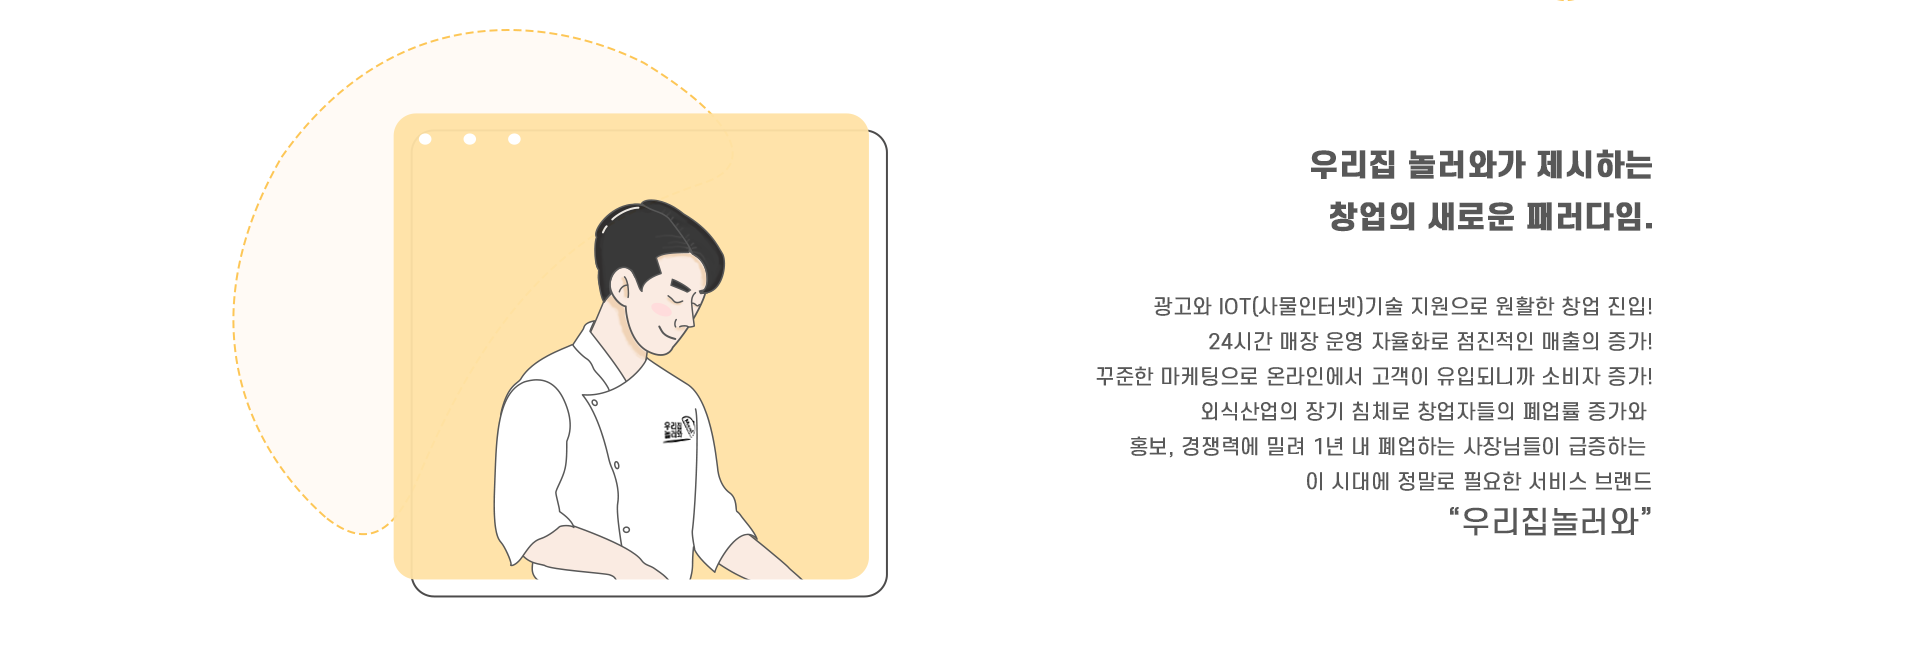
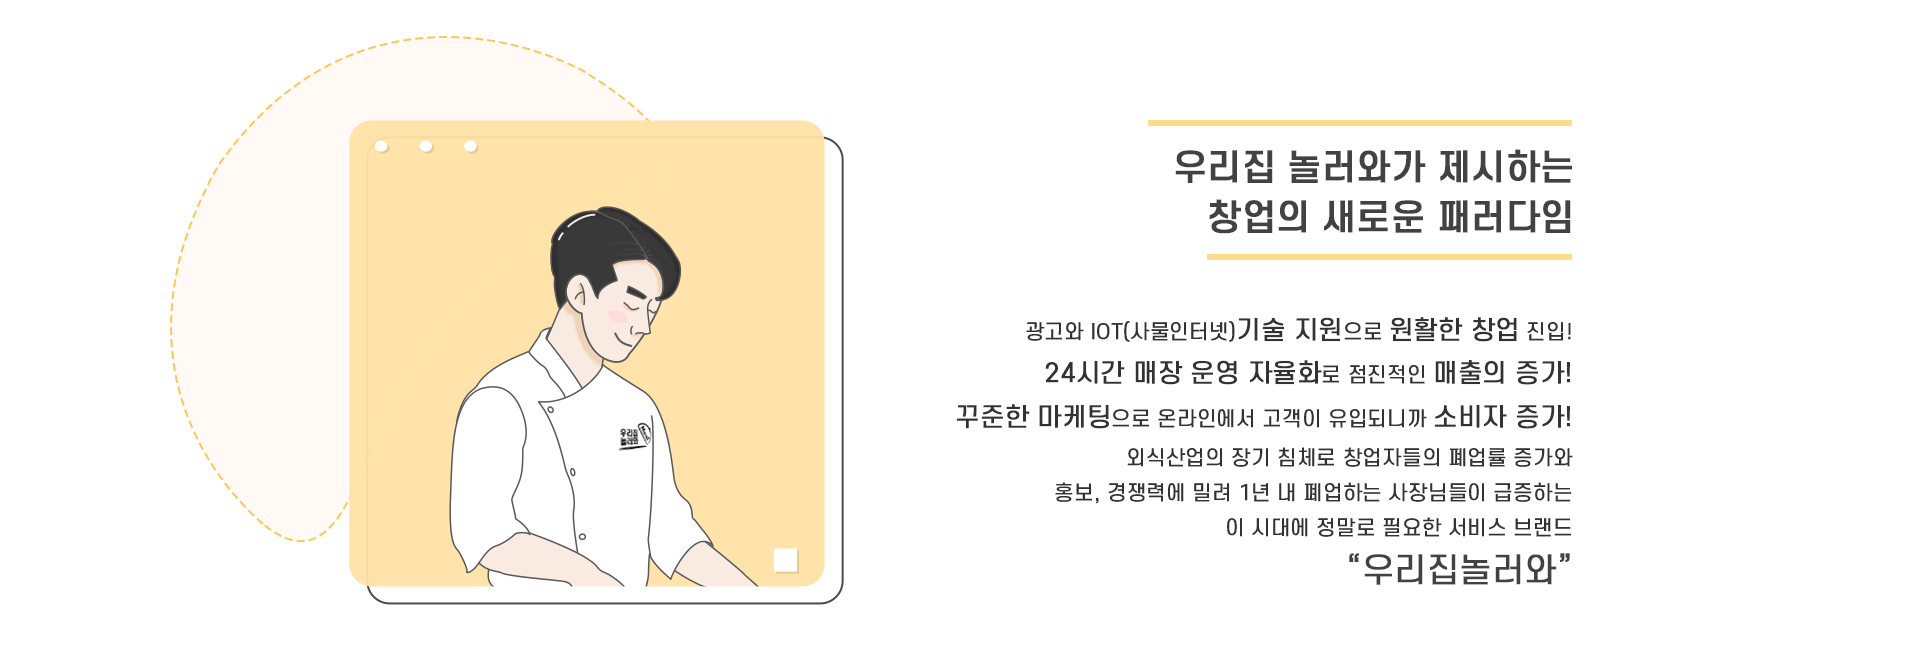
2차수정

diff --git a/index.html b/index.html
@@ -296,23 +296,10 @@
             </section>
             <section id="storeinfo_section" class="storeinfo_section">
                 <div class="inner">
-                    <div class="text_wrap">
-                        <div class="title_wrap">
-                            <p class="title">오직, 밥상을 준비하는 분들에게 집중한 체험공간<br/></p>
-                            <p class="desc">"특별한 요리를 경험하세요"</p>
-                        </div>
-                        <div class="big_text_wrap">
-                            <p class="big_text">
-                                뜯고 담고 굽고 즐기고
-                            </p>
-                        </div>
-                        <div class="button_wrap">
-                            <a class="button" href="/wn-official/smartStor/index.html">매장체험 둘러보기</a>
-                        </div>
-                        <div class="point_wrap">
-                            <p class="text">※ 매장 체험은 예약없이도 이용 가능합니다.<br/>(단, 예약시 선물 증정)</p>
-                        </div>
-                    </div>
+                    <img src="/wn-official/src/img/content/storeinfo_img.png" usemap="#imagemap" alt="우리집 매장체험 안내">
+                    <map id="imagemap" name="imagemap">
+                        <area shape="rect" alt="우리집 놀러와 매장체험 둘러보기" title="우리집 놀러와 매장체험 둘러보기" coords="68,415,268,454" href="/wn-official/smartStor/index.html" target="_self" />
+                    </map>
                 </div>
             </section>
             <section id="stroy_section" class="stroy_section">
@@ -329,13 +316,13 @@
             </section>
             <section id="foundedcost_section" class="foundedcost_section">
                 <div class="cooperation_wrap">
-                    <img src="/wn-official/src/img/content/cooperation_01.png" alt="우리집 놀러와 협력업체"/>
+                    <img src="/wn-official/src/img/content/cooperation.png" alt="우리집 놀러와 협력업체"/>
                 </div>
                 <div class="cost_wrap">
                     <img src="/wn-official/src/img/content/cost_01.png" alt="우리집 놀러와 창업비용">
                 </div>
                 <div class="cost_info_wrap">
-                    <img src="/wn-official/src/img/content/cost_info_01.png" alt="우리집 놀러와 함께하면 좋은점">
+                    <img src="/wn-official/src/img/content/cost_info.png" alt="우리집 놀러와 함께하면 좋은점">
                 </div>
             </section>
             <section id="affiliateinquiry_section" class="affiliateinquiry_section">

diff --git a/src/css/main.css b/src/css/main.css
@@ -409,91 +409,28 @@
 }
 
 .storeinfo_section {
-  padding-top: 6%;
+  padding-top: 8%;
+  display: -webkit-box;
+  display: -ms-flexbox;
+  display: flex;
+  -webkit-box-orient: vertical;
+  -webkit-box-direction: normal;
+      -ms-flex-direction: column;
+          flex-direction: column;
+  -webkit-box-pack: center;
+      -ms-flex-pack: center;
+          justify-content: center;
+  -webkit-box-align: center;
+      -ms-flex-align: center;
+          align-items: center;
   width: 100%;
-  height: 90vh;
-  background-color: #ffb902;
-  display: -webkit-box;
-  display: -ms-flexbox;
-  display: flex;
-  -webkit-box-orient: vertical;
-  -webkit-box-direction: normal;
-      -ms-flex-direction: column;
-          flex-direction: column;
-  text-align: center;
-  color: #fff;
-  background-image: url("/wn-official/src/img/bg/ceo.png");
-  background-size: 50% 60%;
-  background-position: 98% 100%;
-  background-repeat: no-repeat;
-}
-
-.storeinfo_section .text_wrap {
-  margin-top: 15%;
-  display: -webkit-box;
-  display: -ms-flexbox;
-  display: flex;
-  -webkit-box-orient: vertical;
-  -webkit-box-direction: normal;
-      -ms-flex-direction: column;
-          flex-direction: column;
-  -webkit-box-pack: center;
-      -ms-flex-pack: center;
-          justify-content: center;
-  -webkit-box-align: center;
-      -ms-flex-align: center;
-          align-items: center;
-}
-
-.storeinfo_section .text_wrap .title_wrap {
+  height: auto;
   margin-bottom: 4%;
 }
 
-.storeinfo_section .text_wrap .title_wrap .title {
-  font-size: 30px;
-  font-weight: 700;
-}
-
-.storeinfo_section .text_wrap .title_wrap .desc {
-  font-size: 20px;
-}
-
-.storeinfo_section .text_wrap .big_text_wrap {
-  margin-bottom: 4%;
-}
-
-.storeinfo_section .text_wrap .big_text_wrap .big_text {
-  font-size: 28px;
-  font-weight: 700;
-}
-
-.storeinfo_section .text_wrap .button_wrap {
-  margin-bottom: 1%;
-}
-
-.storeinfo_section .text_wrap .button_wrap .button {
-  color: #222;
-  display: -webkit-box;
-  display: -ms-flexbox;
-  display: flex;
-  -webkit-box-pack: center;
-      -ms-flex-pack: center;
-          justify-content: center;
-  -webkit-box-align: center;
-      -ms-flex-align: center;
-          align-items: center;
-  width: 200px;
-  height: 46px;
-  font-size: 20px;
-  font-weight: 700;
-  border: 1px solid #ccc;
-  border-radius: 50px;
-  line-height: 3;
-  background-color: #fff;
-}
-
-.storeinfo_section .text_wrap .point_wrap .text {
-  font-size: 14px;
+.storeinfo_section img {
+  display: block;
+  width: 100%;
 }
 
 .stroy_section {

diff --git a/src/scss/main.scss b/src/scss/main.scss
@@ -252,63 +252,17 @@
     }
 }
 .storeinfo_section {
-    padding-top: 6%;
-    width: 100%;
-    height: 90vh;
-    background-color: #ffb902;
+    padding-top: 8%;
     display: flex;
     flex-direction: column;
-    text-align: center;
-    color: #fff;
-    background-image: url('/wn-official/src/img/bg/ceo.png');
-    background-size: 50% 60%;
-    background-position: 98% 100%;
-    background-repeat:no-repeat;
-    .text_wrap {
-        margin-top: 15%;
-        display: flex;
-        flex-direction: column;
-        justify-content: center;
-        align-items: center;
-        .title_wrap {
-            margin-bottom: 4%;
-            .title{
-                font-size: 30px;
-                font-weight: 700;
-            }
-            .desc {
-                font-size: 20px;
-            }
-        }
-        .big_text_wrap {
-            margin-bottom: 4%;
-            .big_text {
-                font-size: 28px;
-                font-weight: 700;
-            }
-        }
-        .button_wrap {
-            margin-bottom: 1%;
-            .button {
-                color: #222;
-                display: flex;
-                justify-content: center;
-                align-items: center;
-                width: 200px;
-                height: 46px;
-                font-size: 20px;
-                font-weight: 700;
-                border: 1px solid #ccc;
-                border-radius: 50px;
-                line-height: 3;
-                background-color: #fff;
-            }
-        }
-        .point_wrap {
-            .text {
-                font-size: 14px;
-            }
-        }
+    justify-content: center;
+    align-items: center;
+    width: 100%;
+    height: auto;
+    margin-bottom: 4%;
+    img {
+        display: block;
+        width: 100%;
     }
     
 }

diff --git a/src/scss/base.scss b/src/scss/base.scss
@@ -3,7 +3,18 @@
 @import url('https://fonts.googleapis.com/css2?family=Noto+Sans+KR:wght@300;400;500;700;900&display=swap');
 @import url('https://fonts.googleapis.com/css2?family=Nanum+Gothic:wght@400;700&display=swap');
 @import url('https://fonts.googleapis.com/css2?family=Open+Sans:wght@400;500;600;700;800&display=swap');
-
+@font-face {
+    font-family: 'S-CoreDream-3Light';
+    src: url('https://cdn.jsdelivr.net/gh/projectnoonnu/noonfonts_six@1.2/S-CoreDream-3Light.woff') format('woff');
+    font-weight: normal;
+    font-style: normal;
+}
+@font-face {
+    font-family: 'S-CoreDream-6Bold';
+    src: url('https://cdn.jsdelivr.net/gh/projectnoonnu/noonfonts_six@1.2/S-CoreDream-6Bold.woff') format('woff');
+    font-weight: normal;
+    font-style: normal;
+}
 
 *, html, body {
     font-family: 'NotoSansKR', 'NanumGothic', 'OpenSans',-apple-system, 'sans-serif';

diff --git a/src/css/base.css b/src/css/base.css
@@ -1,6 +1,20 @@
 @import url("https://fonts.googleapis.com/css2?family=Noto+Sans+KR:wght@300;400;500;700;900&display=swap");
 @import url("https://fonts.googleapis.com/css2?family=Nanum+Gothic:wght@400;700&display=swap");
 @import url("https://fonts.googleapis.com/css2?family=Open+Sans:wght@400;500;600;700;800&display=swap");
+@font-face {
+  font-family: 'S-CoreDream-3Light';
+  src: url("https://cdn.jsdelivr.net/gh/projectnoonnu/noonfonts_six@1.2/S-CoreDream-3Light.woff") format("woff");
+  font-weight: normal;
+  font-style: normal;
+}
+
+@font-face {
+  font-family: 'S-CoreDream-6Bold';
+  src: url("https://cdn.jsdelivr.net/gh/projectnoonnu/noonfonts_six@1.2/S-CoreDream-6Bold.woff") format("woff");
+  font-weight: normal;
+  font-style: normal;
+}
+
 *, html, body {
   font-family: 'NotoSansKR', 'NanumGothic', 'OpenSans',-apple-system, 'sans-serif';
 }
